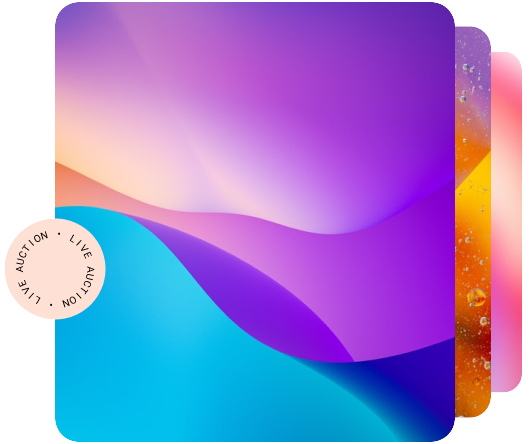
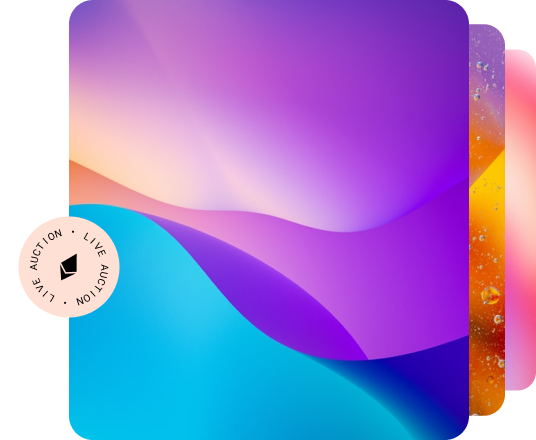
responsive implement

diff --git a/src/components/Hero/index.js b/src/components/Hero/index.js
@@ -4,8 +4,8 @@ import { STATS_LIST } from "@/constants/heroStarsList";
 
 const Hero = () => {
   return (
-    <div className="mt-[57px] mb-[122px] w-8/12 mx-auto">
-      <div className="flex flex-col-reverse md:flex-row md:justify-between">
+    <div className="mt-[57px] mb-[122px] w-9/12 lg:w-11/12 xl:w-10/12 2xl:w-9/12 mx-auto">
+      <div className="flex flex-col space-y-16 lg:space-y-0 lg:flex-row lg:justify-between">
         <div className="flex flex-col justify-end space-y-[30px]">
           <div className="space-y-[41px] max-w-xl w-full">
             <h1 className="text-4xl font-bold tracking-wide font-integral">
@@ -20,7 +20,7 @@ const Hero = () => {
           <div className="flex space-x-8 text-center md:text-left">
             {STATS_LIST.map((item) => (
               <div key={item.title} className="flex flex-col">
-                <span className="text-4xl font-bold font-integral">
+                <span className="sm:text-4xl text-2xl font-bold font-integral">
                   {item.count}
                 </span>
                 <span className="text-xl text-black font-dmsans">
@@ -31,15 +31,15 @@ const Hero = () => {
           </div>
         </div>
 
-        <div className="relative flex justify-end items-center md:items-start">
+        <div className="relative flex justify-end items-center w-[280px] h-[300px] sm:w-[500px] md:w-[550px] sm:h-[440px]">
           <Image
             src="/images/HeroBanner.png"
             alt="Hero Banner"
-            width={500}
+            width={550}
             height={440}
-            className="object-cover w-full h-full"
+            className="w-full h-full"
           />
-          <div className="absolute top-6 left-4 md:left-20 w-full space-y-2 text-white">
+          <div className="absolute top-6 left-1/2 transform -translate-x-1/2 w-8/12 space-y-2 text-white">
             <h1 className="text-lg md:text-2xl font-bold font-dmsans">
               Abstr Gradient NFT
             </h1>
@@ -53,8 +53,8 @@ const Hero = () => {
               <p className="text-lg">Arkhan17</p>
             </div>
           </div>
-          <div className="absolute bottom-7 left-4 md:left-20 w-[350px] text-white backdrop-blur-xl bg-white bg-opacity-20 rounded-xl p-5 flex justify-between">
-            <div className="space-y-2">
+          <div className="absolute bottom-7 left-1/2 transform -translate-x-1/2 w-8/12 text-white backdrop-blur-xl bg-white bg-opacity-20 rounded-xl p-5 flex justify-between">
+          <div className="space-y-2">
               <h1 className="text-sm font-medium font-dmsans">Current Bid</h1>
               <div className="flex items-center space-x-2">
                 <Image

diff --git a/src/components/collections/multipleCollections/Card.js b/src/components/collections/multipleCollections/Card.js
@@ -3,37 +3,41 @@ import Button from "@/components/common/others/Button";
 
 const Card = ({ image, desc, author, highestBid }) => {
   return (
-    <div className="flex items-center space-x-5">
-      <Image 
-        src={image} 
-        alt={`Image of ${author.name}'s collection`} 
-        width={147} 
-        height={147} 
-        className="object-cover rounded-lg"
+    <div className="flex items-center 2xl:space-x-5 space-x-3">
+      <Image
+        src={image}
+        alt={`Image of ${author.name}'s collection`}
+        width={147}
+        height={147}
+        className="object-cover rounded-lg 2xl:w-36 w-28 lg:w-32 h-full"
       />
       <div className="flex flex-col space-y-2">
         <div className="text-xl font-bold font-dmsans">{author.name}</div>
-        <div className="flex gap-2.5 items-center">
-          <Image 
-            src={author.avatar} 
-            alt={`Avatar of ${author.name}`} 
-            width={34} 
-            height={34} 
-            className="object-cover rounded-full"
+        <div className="flex gap-2.5 items-center w-56">
+          <Image
+            src={author.avatar}
+            alt={`Avatar of ${author.name}`}
+            width={34}
+            height={34}
+            className="object-cover rounded-full w-[34px] h-[34px]"
           />
           <div className="flex flex-col text-neutral-700">
-            <div className="flex gap-2.5 border rounded-[6px] border-[#00AC4F] px-2 h-8 items-center">
-              <Image 
-                src={highestBid.icon} 
-                alt="Bid Icon" 
-                width={13} 
-                height={13} 
+            <div className="flex 2xl:space-x-2 space-x-1 border rounded-[6px] border-[#00AC4F] px-2 h-8 items-center">
+              <Image
+                src={highestBid.icon}
+                alt="Bid Icon"
+                width={13}
+                height={13}
                 className="object-cover"
               />
-              <div className="text-[#00AC4F] text-xs font-bold font-dmsans">{highestBid.amount}</div>
+              <div className="text-[#00AC4F] text-xs font-bold font-dmsans whitespace-nowrap w-16">
+                {highestBid.amount}
+              </div>{" "}
             </div>
           </div>
-          <div className="text-sm text-[#757575] font-dmsans">{desc}</div>
+          <div className="text-sm text-[#757575] font-dmsans whitespace-nowrap hidden sm:block md:hidden xl:block">
+            {desc}
+          </div>
         </div>
         <Button variant="placeabid">Place a bid</Button>
       </div>

diff --git a/src/components/common/layouts/header/index.js b/src/components/common/layouts/header/index.js
@@ -6,13 +6,13 @@ import { NAV_MENU_ITEMS } from "@/constants/navMenu";
 const Header = () => {
   return (
     <div className="flex flex-col items-center pb-7 pt-[31px] border-b w-full">
-      <div className="flex justify-between items-center w-8/12 max-md:w-full">
+      <div className="flex justify-between items-center w-9/12 lg:w-11/12 xl:w-10/12 2xl:w-9/12 mx-auto">
         <div className="flex gap-8 items-center">
           <div className="text-2xl font-bold text-[#3D00B7] leading-none font-integral">
             NFTERS
           </div>
           <div className="border border-[#F4F4F4] h-[47px]" />
-          <nav className="flex gap-8">
+          <nav className="sm:block space-x-8 hidden">
           {NAV_MENU_ITEMS.map(({ label, href }) => (
             <Link key={label} href={
               href
@@ -22,7 +22,7 @@ const Header = () => {
           ))}
           </nav>
         </div>
-        <div className="flex gap-4">
+        <div className="xl:flex gap-4 hidden">
           <SearchBar />
           <Button variant="primary">Upload</Button>
           <Button variant="secondary">Connect Wallet</Button>

diff --git a/src/components/Features/index.js b/src/components/Features/index.js
@@ -1,20 +1,20 @@
-import FeatureCard from '@/components/features/Card';
+import Card from '@/components/features/Card';
 import { FEATURES_LIST } from '@/constants/features';
 
 const Features = () => {
   return (
-    <section className="py-[109.5px] w-full bg-slate-200 bg-opacity-20">
-      <div className="w-8/12 mx-auto grid grid-cols-1 gap-[86px] max-md:w-full max-md:gap-8 md:grid-cols-10">
+    <div className="py-[109.5px] w-full bg-slate-200 bg-opacity-20">
+      <div className="w-9/12 lg:w-11/12 xl:w-10/12 2xl:w-9/12 mx-auto grid lg:grid-cols-10 gap-[43px]">
         <div className="flex flex-col col-span-4 max-md:w-full">
-          <h2 className="text-[28px] leading-9 font-bold font-integral w-[398px]">
+          <h2 className="text-[28px] leading-9 font-bold font-integral sm:w-[398px]">
             The amazing NFT art of the world here
           </h2>
         </div>
           {FEATURES_LIST.map((feature, index) => (
-            <FeatureCard key={index} {...feature} />
+            <Card key={index} {...feature} />
           ))}
       </div>
-    </section>
+    </div>
   );
 };
 

diff --git a/src/components/collections/index.js b/src/components/collections/index.js
@@ -11,16 +11,17 @@ const Index = () => {
   const [singleCollection] = SINGLE_COLLECTION_LIST;
   
   return (
-    <div className="w-8/12 mx-auto my-[134px] flex space-x-12">
+    <div className="w-9/12 lg:w-11/12 xl:w-10/12 2xl:w-9/12 mx-auto my-[134px] grid grid-cols-3 gap-y-10 lg:gap-y-0 lg:grid-cols-9 gap-x-6">
       <SingleCollection
         image={singleCollection.image}
         title={singleCollection.title}
         author={singleCollection.author}
         highestBid={singleCollection.highestBid}
       />
-      <MultipleCollection multipleCollectionList={MULTIPLE_COLLECTION_LIST} />
-      <hr className="h-[510px] bg-[#ECECEC] w-0.5" />
-      <TopCollections topCollections={TOP_COLLECTIONS} />
+      <div className="col-span-6 grid md:grid-cols-12 xl:gap-x-10 gap-y-10 md:gap-y-0 lg:gap-x-5 gap-x-2">
+        <MultipleCollection multipleCollectionList={MULTIPLE_COLLECTION_LIST} />
+        <TopCollections topCollections={TOP_COLLECTIONS} />
+      </div>
     </div>
   );
 };

diff --git a/src/components/collections/SingleCollection.js b/src/components/collections/SingleCollection.js
@@ -11,7 +11,7 @@ const SingleCollection = ({ image, title, author, highestBid }) => {
           width={1000}
           height={1000}
         />
-        <div className="flex justify-between">
+        <div className="flex flex-col sm:flex-row lg:flex-col xl:flex-row justify-between space-y-2">
           <div className="flex items-start gap-2.5">
             <Image
               src={author.avatar}
@@ -25,7 +25,7 @@ const SingleCollection = ({ image, title, author, highestBid }) => {
               <div className="text-sm text-[#363639] font-dmsans">{author.desc}</div>
             </div>
           </div>
-          <div className="flex flex-col text-[#3A3A3A] justify-between">
+          <div className="flex flex-col text-[#3A3A3A] justify-between pl-14 xl:pl-0">
             <div className="text-xs font-medium font-dmsans">Highest Bid</div>
             <div className="flex items-center gap-2.5 text-base font-bold">
               <Image

diff --git a/src/components/common/layouts/footer/index.js b/src/components/common/layouts/footer/index.js
@@ -4,8 +4,8 @@ import NewsletterSignup from "@/components/common/layouts/footer/NewsletterSignu
 
 const Footer = () => {
   return (
-    <div className="w-full max-w-7xl mx-auto px-4 py-8">
-      <div className="grid grid-cols-1 md:grid-cols-12 gap-8">
+    <div className="w-9/12 lg:w-11/12 xl:w-10/12 2xl:w-9/12 mx-auto px-4 py-8">
+      <div className="grid sm:grid-cols-2 lg:grid-cols-12 gap-8">
         <div className="col-span-1 md:col-span-4 space-y-6">
           <h2 className="text-2xl font-bold font-integral">NFters</h2>
           <p className="text-sm text-[#565656] font-dmsans">

diff --git a/src/components/collections/multipleCollections/index.js b/src/components/collections/multipleCollections/index.js
@@ -1,10 +1,10 @@
-import MultipleCollectionCard from "@/components/collections/multipleCollections/Card";
+import Card from "@/components/collections/multipleCollections/Card";
 
 const Index = ({ multipleCollectionList }) => {
   return (
-    <div className="flex flex-col justify-between col-span-3">
+    <div className="grid grid-flow-row gap-8 col-span-6 md:border-r-2">
       {multipleCollectionList.map((collection, index) => (
-        <MultipleCollectionCard key={index} {...collection} />
+        <Card key={index} {...collection} />
       ))}
     </div>
   );

diff --git a/src/components/collections/topCollections/index.js b/src/components/collections/topCollections/index.js
@@ -2,7 +2,7 @@ import Card from "@/components/collections/topCollections/Card";
 
 const Index = ({ topCollections }) => {
   return (
-    <div className="flex flex-col col-span-3 space-y-8">
+    <div className="flex flex-col col-span-6 space-y-8">
       <div className="space-y-[10px]">
         <h3 className="text-xl font-bold font-dmsans">Top Collections over</h3>
         <div className="text-lg font-bold text-[#3D00B7] font-dmsans">

diff --git a/src/components/common/layouts/footer/FooterLinks.js b/src/components/common/layouts/footer/FooterLinks.js
@@ -2,7 +2,7 @@ import Link from "next/link";
 
 const FooterLinks = ({ title, links }) => {
   return (
-    <div className="col-span-1 md:col-span-2 space-y-4 font-dmsans">
+    <div className="col-span-1 lg:col-span-2 space-y-4 font-dmsans">
       <h3 className="text-lg font-bold">{title}</h3>
       <ul className="text-sm text-[#3D3D3D] font-normal space-y-2">
         {links.map((link, index) => (

diff --git a/src/components/collections/topCollections/Card.js b/src/components/collections/topCollections/Card.js
@@ -4,7 +4,7 @@ const Card = ({ id, image, name, value, valueAlert, change, isPositive }) => {
   return (
     <div className="flex gap-5 items-center w-full">
       <div className="text-2xl font-bold font-dmsans">{id}</div>
-      <div className="relative">
+      <div className="relative w-10 lg:w-16 xl:w-20">
         {valueAlert && (
           <Image
             src="/icons/Positive.svg"
